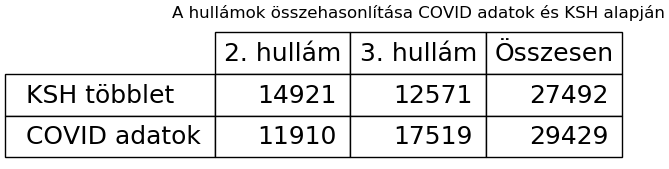
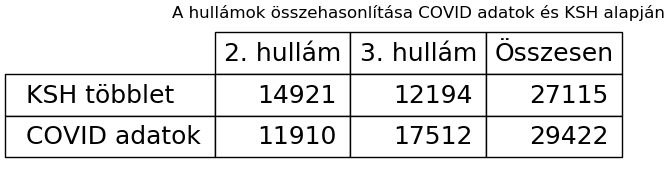
Tábla hibajavítás

diff --git a/kép_ksh_vs_hivatalos_halálozás_tábla.py b/kép_ksh_vs_hivatalos_halálozás_tábla.py
@@ -7,16 +7,18 @@ import datetime as dt
 import os
 from pandas.plotting import table
 import matplotlib.pyplot as plt
+from datetime import timedelta
 
 BASEDIR=os.path.dirname(__file__)
 
 df = pd.read_csv(BASEDIR +"/adatok/stadat-halalozas-elokeszitve.csv", parse_dates=['A hét kező napja', 'A hét záró napja'], delimiter=';')
-dfweeks = df[(df['A hét sorszáma'] < 29.0) | (df['A hét sorszáma'] > 35.0)]
+maxdate = df['A hét kező napja'].max() + timedelta(days = -35)
+df = df[df['A hét kező napja'] <= maxdate]
 
-df2020 = dfweeks[dfweeks['A hét záró napja'] > "2020-08-30"]
+df2020 = df[df['A hét záró napja'] > "2020-08-30"]
 covid_elhunytak = df2020[['A hét kező napja', 'A hét sorszáma', 'Összesen összesen']].rename(columns = {'Összesen összesen': 'Elhunytak'}, inplace = False)
 
-dfatlag = dfweeks[dfweeks['A hét záró napja'] < "2020-01-01"]
+dfatlag = df[df['A hét záró napja'] < "2020-01-01"]
 
 dfatlag = dfatlag.groupby('A hét sorszáma').mean().reset_index()
 atlag_elhunytak = dfatlag[['A hét sorszáma', 'Összesen összesen']].rename(columns = {'Összesen összesen': 'KSH 5 éves átlag'}, inplace = False)
